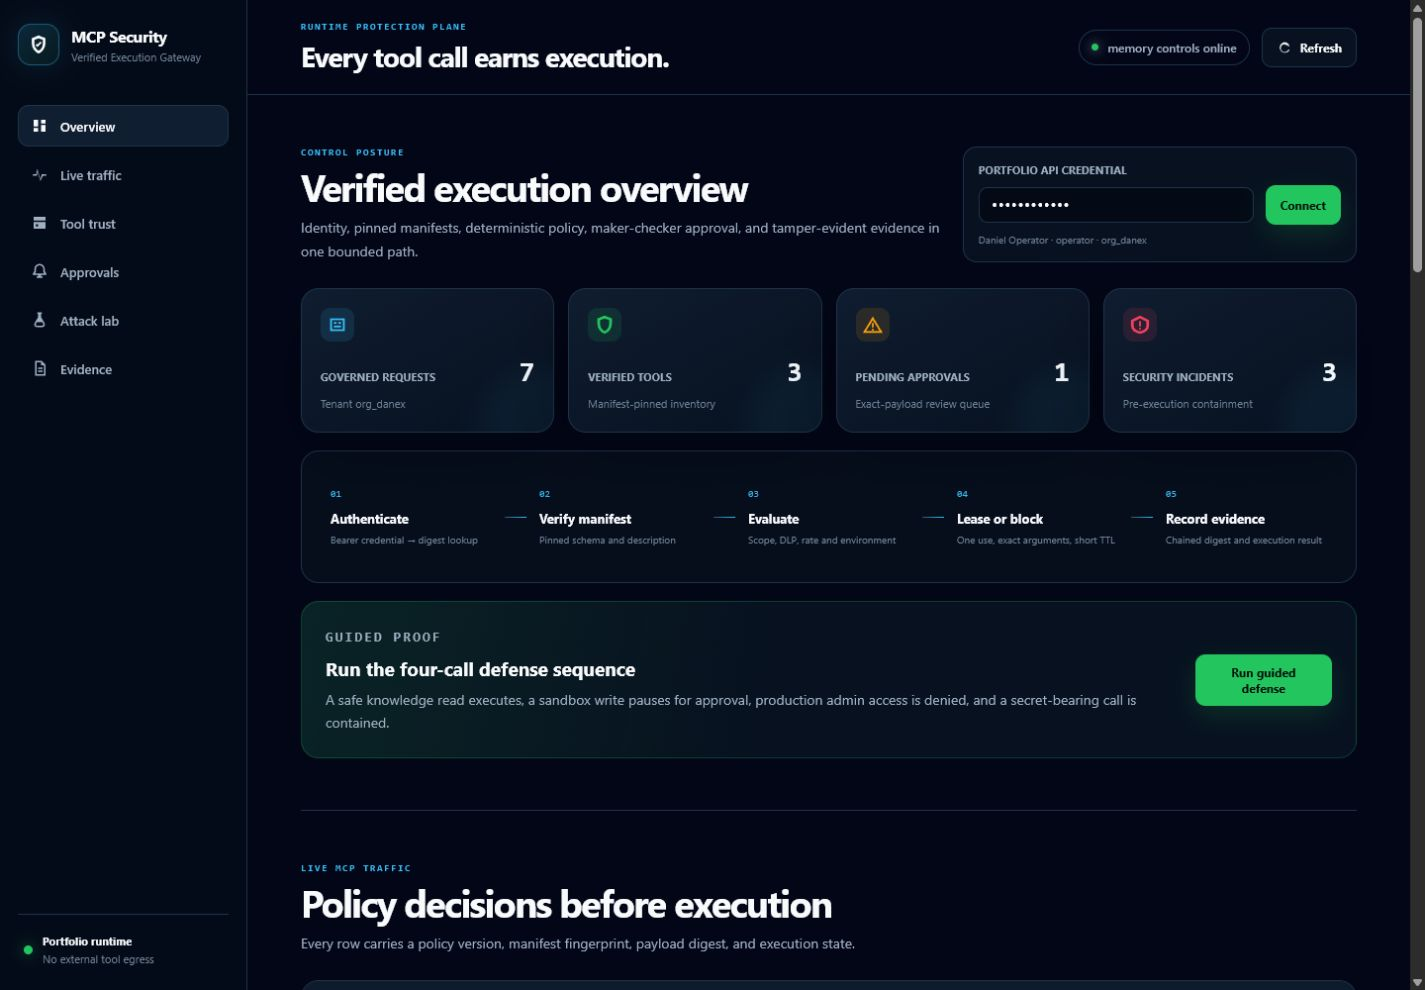
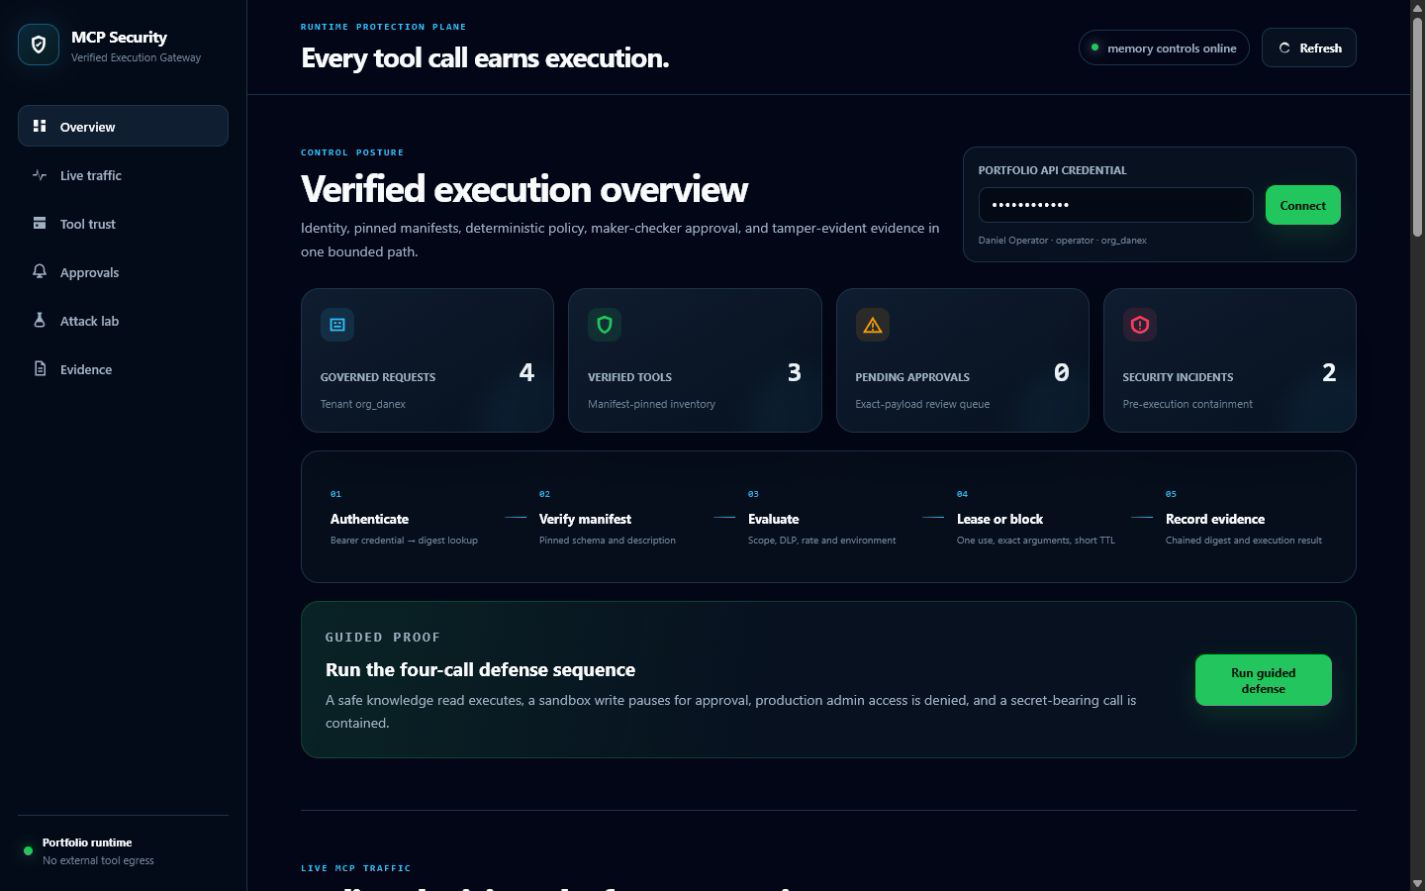
Add commercial demo showcase and MIT license

diff --git a/README.md b/README.md
@@ -3,13 +3,15 @@
 > Protocol-aware runtime firewall for verified MCP tool execution.
 
 [![CI](https://github.com/danieloza/mcp-security-gateway/actions/workflows/ci.yml/badge.svg)](https://github.com/danieloza/mcp-security-gateway/actions/workflows/ci.yml)
+![Release](https://img.shields.io/badge/Release-v0.2.1-22C55E?style=for-the-badge)
 ![Python](https://img.shields.io/badge/Python-3.11%2B-3776AB?style=for-the-badge&logo=python&logoColor=white)
 ![FastAPI](https://img.shields.io/badge/FastAPI-Runtime_Gateway-009688?style=for-the-badge&logo=fastapi&logoColor=white)
 ![MCP](https://img.shields.io/badge/MCP-tools%2Fcall-111827?style=for-the-badge)
 ![Security Tests](https://img.shields.io/badge/Security_Tests-20_Passing-16A34A?style=for-the-badge)
 ![API Keys](https://img.shields.io/badge/API_Keys-Digest_Only-0284C7?style=for-the-badge)
+[![License: MIT](https://img.shields.io/badge/License-MIT-F59E0B?style=for-the-badge)](LICENSE)
 
-[Overview](#what-it-solves) · [Verified Execution](#verified-execution-flow) · [Demo](#guided-demo) · [API](docs/API_EXAMPLES.md) · [Threat Model](docs/THREAT_MODEL.md) · [Patch Notes](CHANGELOG.md)
+[Overview](#what-it-solves) · [Product Demo](#product-demo) · [Product Tour](#product-tour) · [Verified Execution](#verified-execution-flow) · [API](docs/API_EXAMPLES.md) · [Threat Model](docs/THREAT_MODEL.md) · [Patch Notes](CHANGELOG.md) · [MIT License](LICENSE)
 
 ![MCP Security Gateway operator console](docs/assets/gateway-dashboard.png)
 
@@ -31,6 +33,26 @@ MCP Security Gateway places that control point between an MCP client and a fixed
 tool execution adapter. It supports protocol-level `initialize`, `ping`,
 `tools/list`, and `tools/call`, then applies deterministic controls before any
 side effect.
+
+## Product Demo
+
+This walkthrough is generated from the running gateway, not from mocked
+screens. It follows one governed request across policy evaluation,
+maker-checker approval, adversarial security tests, execution, and evidence.
+
+![MCP Security Gateway verified execution demo](docs/assets/mcp-security-gateway-demo.gif)
+
+| Stage | Control | Observable proof |
+| --- | --- | --- |
+| Request | Scope, environment, DLP, and rate policy | `executed`, `awaiting approval`, or `blocked` before side effects |
+| Approval | Maker-checker separation | Exact payload digest and assigned checker |
+| Attack testing | Deterministic MCP abuse cases | Rug pull, tampering, secret egress, SSRF, and key-storage checks |
+| Execution | One-time capability lease | Caller, manifest, arguments, policy, and expiry re-verified |
+| Evidence | HMAC-linked audit events | Policy, approval, and execution chain with integrity status |
+
+The operator-led version takes about 90 seconds. See the
+[presenter script](docs/DEMO_GUIDE.md) for the exact credential switches and
+talk track.
 
 ## Verified Execution Flow
 
@@ -120,6 +142,41 @@ The dashboard provides:
 
 The UI keeps the entered credential only in JavaScript memory. It does not use
 cookies or browser storage.
+
+## Product Tour
+
+The screenshots below use a clean local database and the same API paths covered
+by the automated tests.
+
+### 1. Policy enforcement before execution
+
+![Policy decisions and pinned MCP tool manifests](docs/assets/policy-enforcement.png)
+
+One table separates policy decision from execution state. Safe knowledge access
+executes, a regulated write pauses, and forbidden production or secret-bearing
+calls are contained.
+
+### 2. Maker-checker approval bound to the payload
+
+![Maker-checker exact payload approval](docs/assets/approval-workbench.png)
+
+The reviewer sees the request identity, payload digest, maker, and checker.
+Approval creates a short-lived capability lease for that immutable payload only.
+
+### 3. Adversarial controls as executable evidence
+
+![MCP Attack Lab showing five verified controls](docs/assets/attack-lab.png)
+
+The Attack Lab verifies manifest rug-pull detection, post-approval argument
+tampering, secret exfiltration, cloud-metadata SSRF, and digest-only API-key
+storage.
+
+### 4. Tamper-evident evidence chain
+
+![Verified policy approval and execution evidence chain](docs/assets/evidence-chain.png)
+
+The evidence explorer links policy, approval, and execution events and verifies
+the organization audit chain before presenting the evidence-pack digest.
 
 ## API Surface
 
@@ -259,7 +316,12 @@ See [Threat Model](docs/THREAT_MODEL.md) and
 
 ## Proof Assets
 
+- animated product demo: [docs/assets/mcp-security-gateway-demo.gif](docs/assets/mcp-security-gateway-demo.gif)
 - operator dashboard: [docs/assets/gateway-dashboard.png](docs/assets/gateway-dashboard.png)
+- policy enforcement: [docs/assets/policy-enforcement.png](docs/assets/policy-enforcement.png)
+- maker-checker approval: [docs/assets/approval-workbench.png](docs/assets/approval-workbench.png)
+- Attack Lab: [docs/assets/attack-lab.png](docs/assets/attack-lab.png)
+- evidence chain: [docs/assets/evidence-chain.png](docs/assets/evidence-chain.png)
 - architecture: [docs/ARCHITECTURE.md](docs/ARCHITECTURE.md)
 - threat model: [docs/THREAT_MODEL.md](docs/THREAT_MODEL.md)
 - API examples: [docs/API_EXAMPLES.md](docs/API_EXAMPLES.md)
@@ -280,3 +342,8 @@ See [Threat Model](docs/THREAT_MODEL.md) and
 [Regulated AI Agent Platform](https://github.com/danieloza/regulated-ai-agent-platform)
 demonstrates broader governance lifecycles. MCP Security Gateway stays deliberately
 narrow: it is the protocol-specific enforcement boundary for agent tool traffic.
+
+## License
+
+Copyright © 2026 Daniel Danek. Released under the
+[MIT License](LICENSE).

diff --git a/CHANGELOG.md b/CHANGELOG.md
@@ -2,6 +2,19 @@
 
 Significant changes to the MCP Security Gateway are documented here.
 
+## [0.2.1] - 2026-07-24
+
+### Commercial project showcase
+
+- added a compact animated product walkthrough generated from the running
+  gateway;
+- added full-resolution views for policy enforcement, maker-checker approval,
+  the MCP Attack Lab, and the tamper-evident evidence chain;
+- restructured the README as an executive product tour while keeping technical
+  boundaries and deployment limitations explicit;
+- added release and MIT license badges plus package ownership metadata;
+- released the repository under the MIT License.
+
 ## [0.2.0] - 2026-07-24
 
 ### Verified MCP execution
